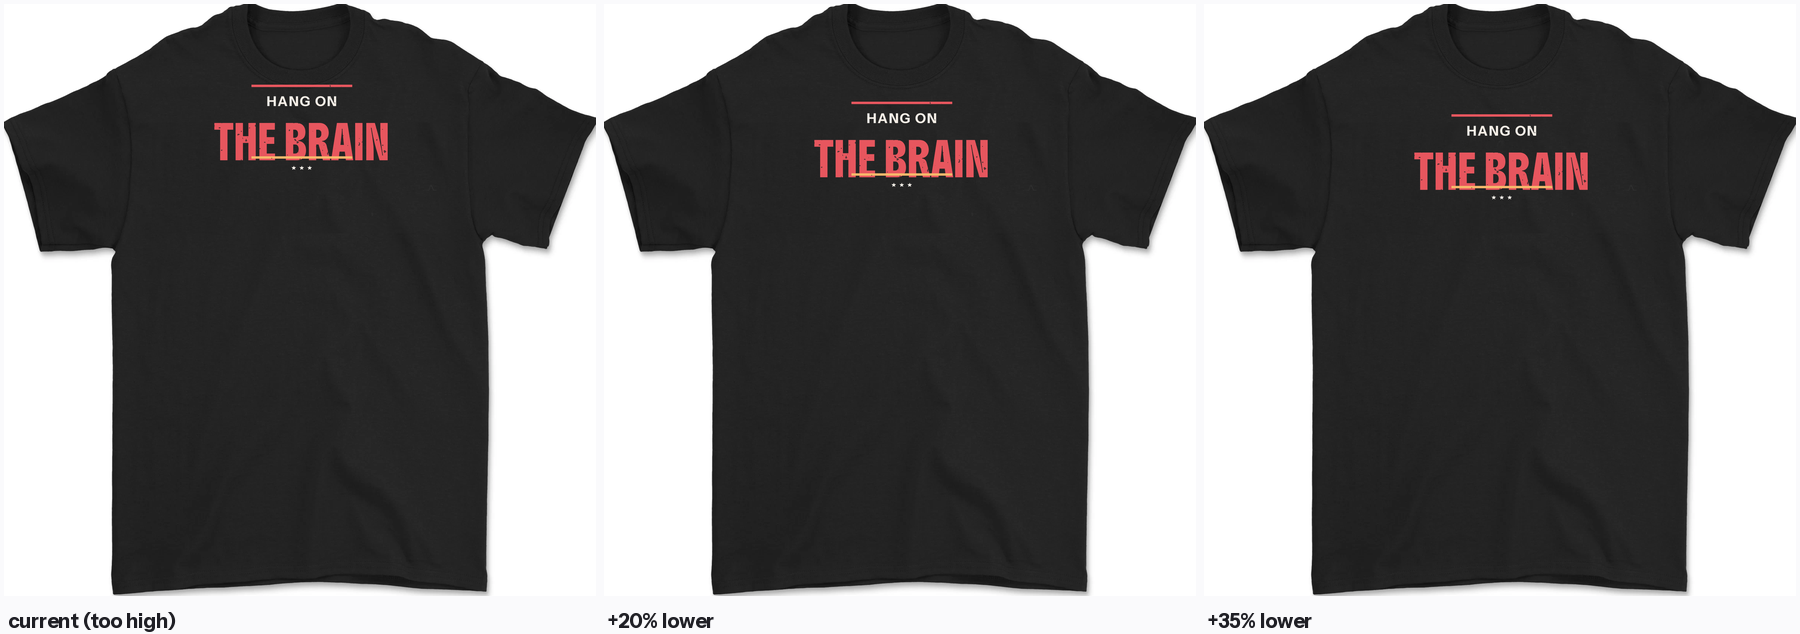
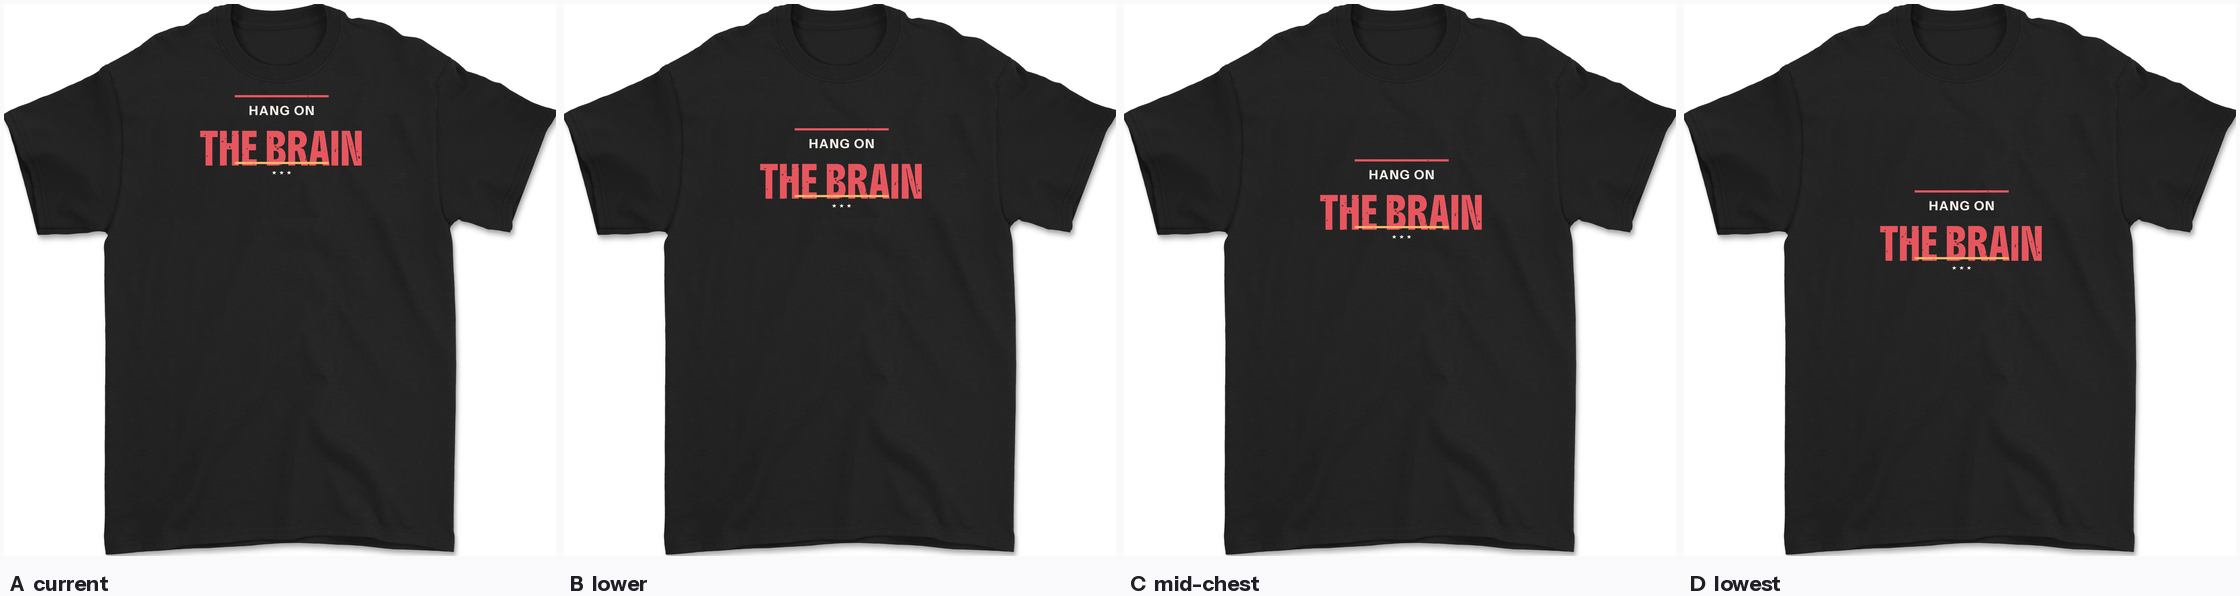
tshirt: print moved to mid-chest
The print was sitting right under the neckline. Offsets of 28, 60 and 74
below the collar were all still too high. Moved to 260, which puts it on
the mid-chest with clear space above.

Claude-Session: https://claude.ai/code/session_01TvvbLgbPQ1Bk5N7TUiTbcc

diff --git a/tshirt/mockup.py b/tshirt/mockup.py
@@ -38,7 +38,7 @@ def make_blank():
 # Chest, not belly: the print sits just under the collar, centred on the torso.
 PRINT_W   = int((BODY_R - BODY_L) * 0.46)      # ~418px  - the smaller print
 PRINT_CX  = (BODY_L + BODY_R) // 2             # 725
-PRINT_TOP = COLLAR_Y + 74                      # chest. +60 read low, +28 read high
+PRINT_TOP = COLLAR_Y + 260                     # mid-chest, clear of the neckline
 
 
 def place(design, base=None):
